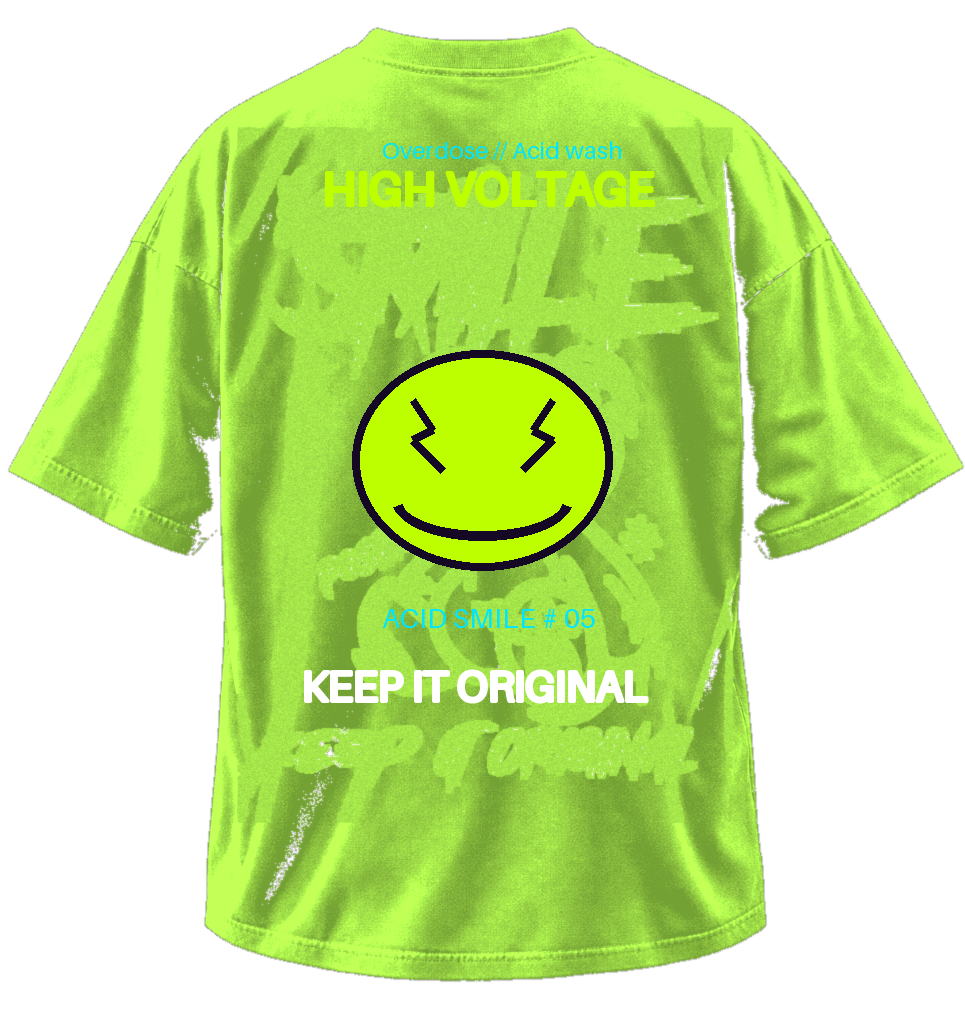
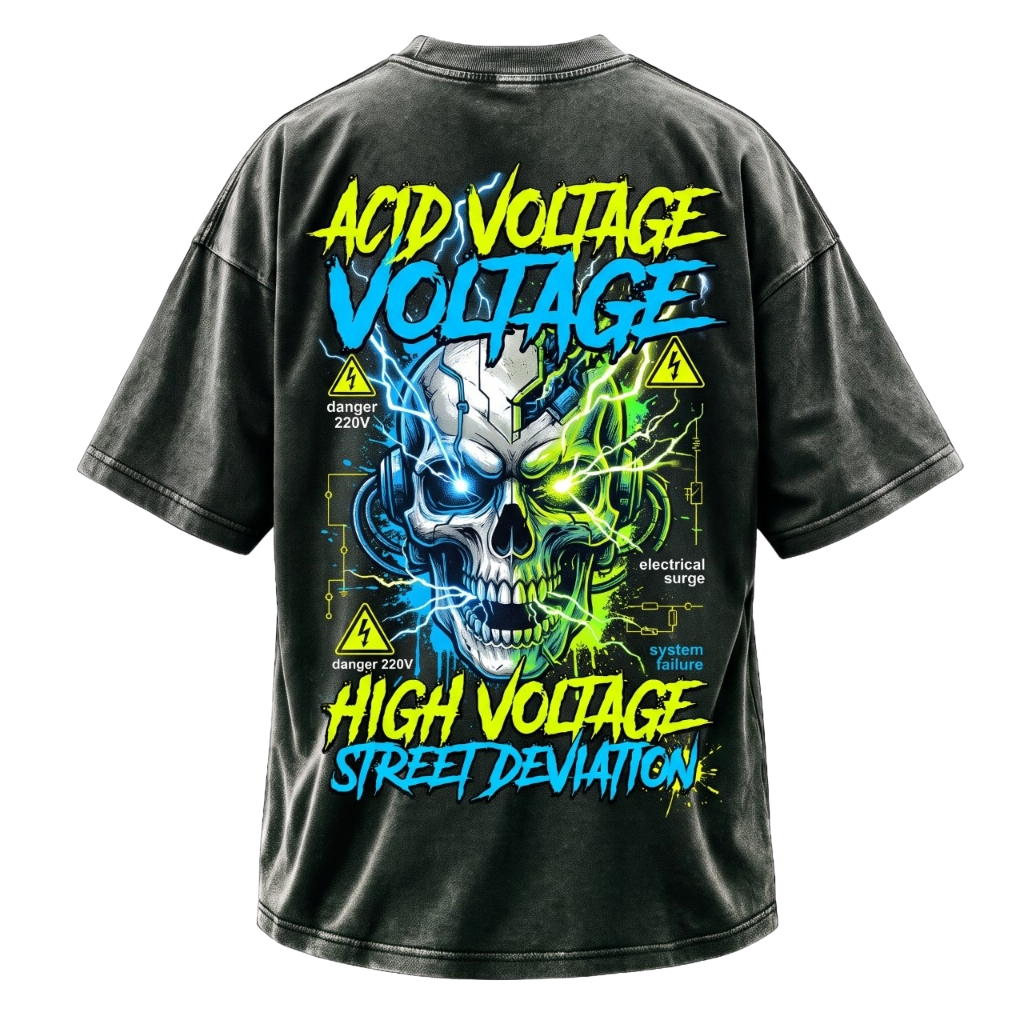
feat: add real product photos and colors for Acid Voltage Wash Streetwear Tee

diff --git a/frontend/src/data/products.ts b/frontend/src/data/products.ts
@@ -239,11 +239,11 @@ export const INITIAL_PRODUCTS: Product[] = [
     image_url: '/products/acid-smile.png',
     images_by_color: makeProductImages('acid-smile'),
     print_style: 'acid-wasabi',
-    print_title: 'VOLTAGE // ACID',
-    print_subtitle: 'HIGH VOLTAGE',
+    print_title: 'ACID VOLTAGE',
+    print_subtitle: 'HIGH VOLTAGE // STREET DEVIATION',
     name: 'Acid Voltage Wash Streetwear Tee',
-    short_description: 'Кислотный смайл с электрическими молниями в глазах и надписью KEEP IT ORIGINAL.',
-    description: 'Уличный оверсайз в духе Off-White и берлинского техно. Высококонтрастная графика с ярким ядовитым оттенком.',
+    short_description: 'Винтажный оверсайз Acid Wash 240 г/м² с кибер-черепом под напряжением 220V и надписью HIGH VOLTAGE STREET DEVIATION.',
+    description: 'Культовый уличный оверсайз с эффектом винтажной выварки Acid Wash плотностью 240 г/м². Детализированный принт кибернетического черепа в наушниках с электрическими разрядами и предупреждающими знаками. Доступна в 3 аутентичных вываренных расцветках: Графит Acid Wash, Моховой лайм и Электрик-циан.',
     variants: [],
   },
   {
@@ -323,7 +323,7 @@ export const PRODUCT_AVAILABLE_COLORS: Record<string, string[]> = {
   'prod-002': ['black-sesame', 'cold-ice', 'velvet-indigo', 'acid-lime'], // 4 реальных цвета: черный, белый, темный индиго и графит-лайм!
   'prod-003': ['black-sesame', 'cold-ice', 'velvet-indigo', 'acid-lime'], // 4 реальных цвета: черный, белый, темный индиго и графит-лайм!
   'prod-004': ['black-sesame', 'cold-ice', 'velvet-indigo', 'acid-lime'], // 4 реальных цвета: черный, белый, темный индиго и графит-лайм!
-  'prod-005': ['black-sesame', 'acid-lime'], // Черный и кислотный лайм
+  'prod-005': ['black-sesame', 'acid-lime', 'mana-cyan'], // 3 реальных цвета винтажной выварки: графит, моховой лайм и электрик-циан!
   'prod-006': ['black-sesame', 'mana-cyan'], // Черный и циан космос
   'prod-007': ['black-sesame', 'cold-ice'], // Базовый черный и белый
   'prod-008': ['black-sesame'], // Только глубокий черный

diff --git a/frontend/src/App.tsx b/frontend/src/App.tsx
@@ -90,9 +90,9 @@ export const App: React.FC = () => {
   // Данные магазина с локальной персистентностью и актуальными фото и остатками по цветам
   const [products, setProducts] = useState<Product[]>(() => {
     try {
-      const saved = localStorage.getItem('test_products_v8');
+      const saved = localStorage.getItem('test_products_v9');
       if (saved) return JSON.parse(saved);
-      localStorage.setItem('test_products_v8', JSON.stringify(INITIAL_PRODUCTS));
+      localStorage.setItem('test_products_v9', JSON.stringify(INITIAL_PRODUCTS));
       return INITIAL_PRODUCTS;
     } catch {
       return INITIAL_PRODUCTS;
@@ -154,7 +154,7 @@ export const App: React.FC = () => {
   });
 
   useEffect(() => {
-    localStorage.setItem('test_products_v8', JSON.stringify(products));
+    localStorage.setItem('test_products_v9', JSON.stringify(products));
   }, [products]);
 
   useEffect(() => {
